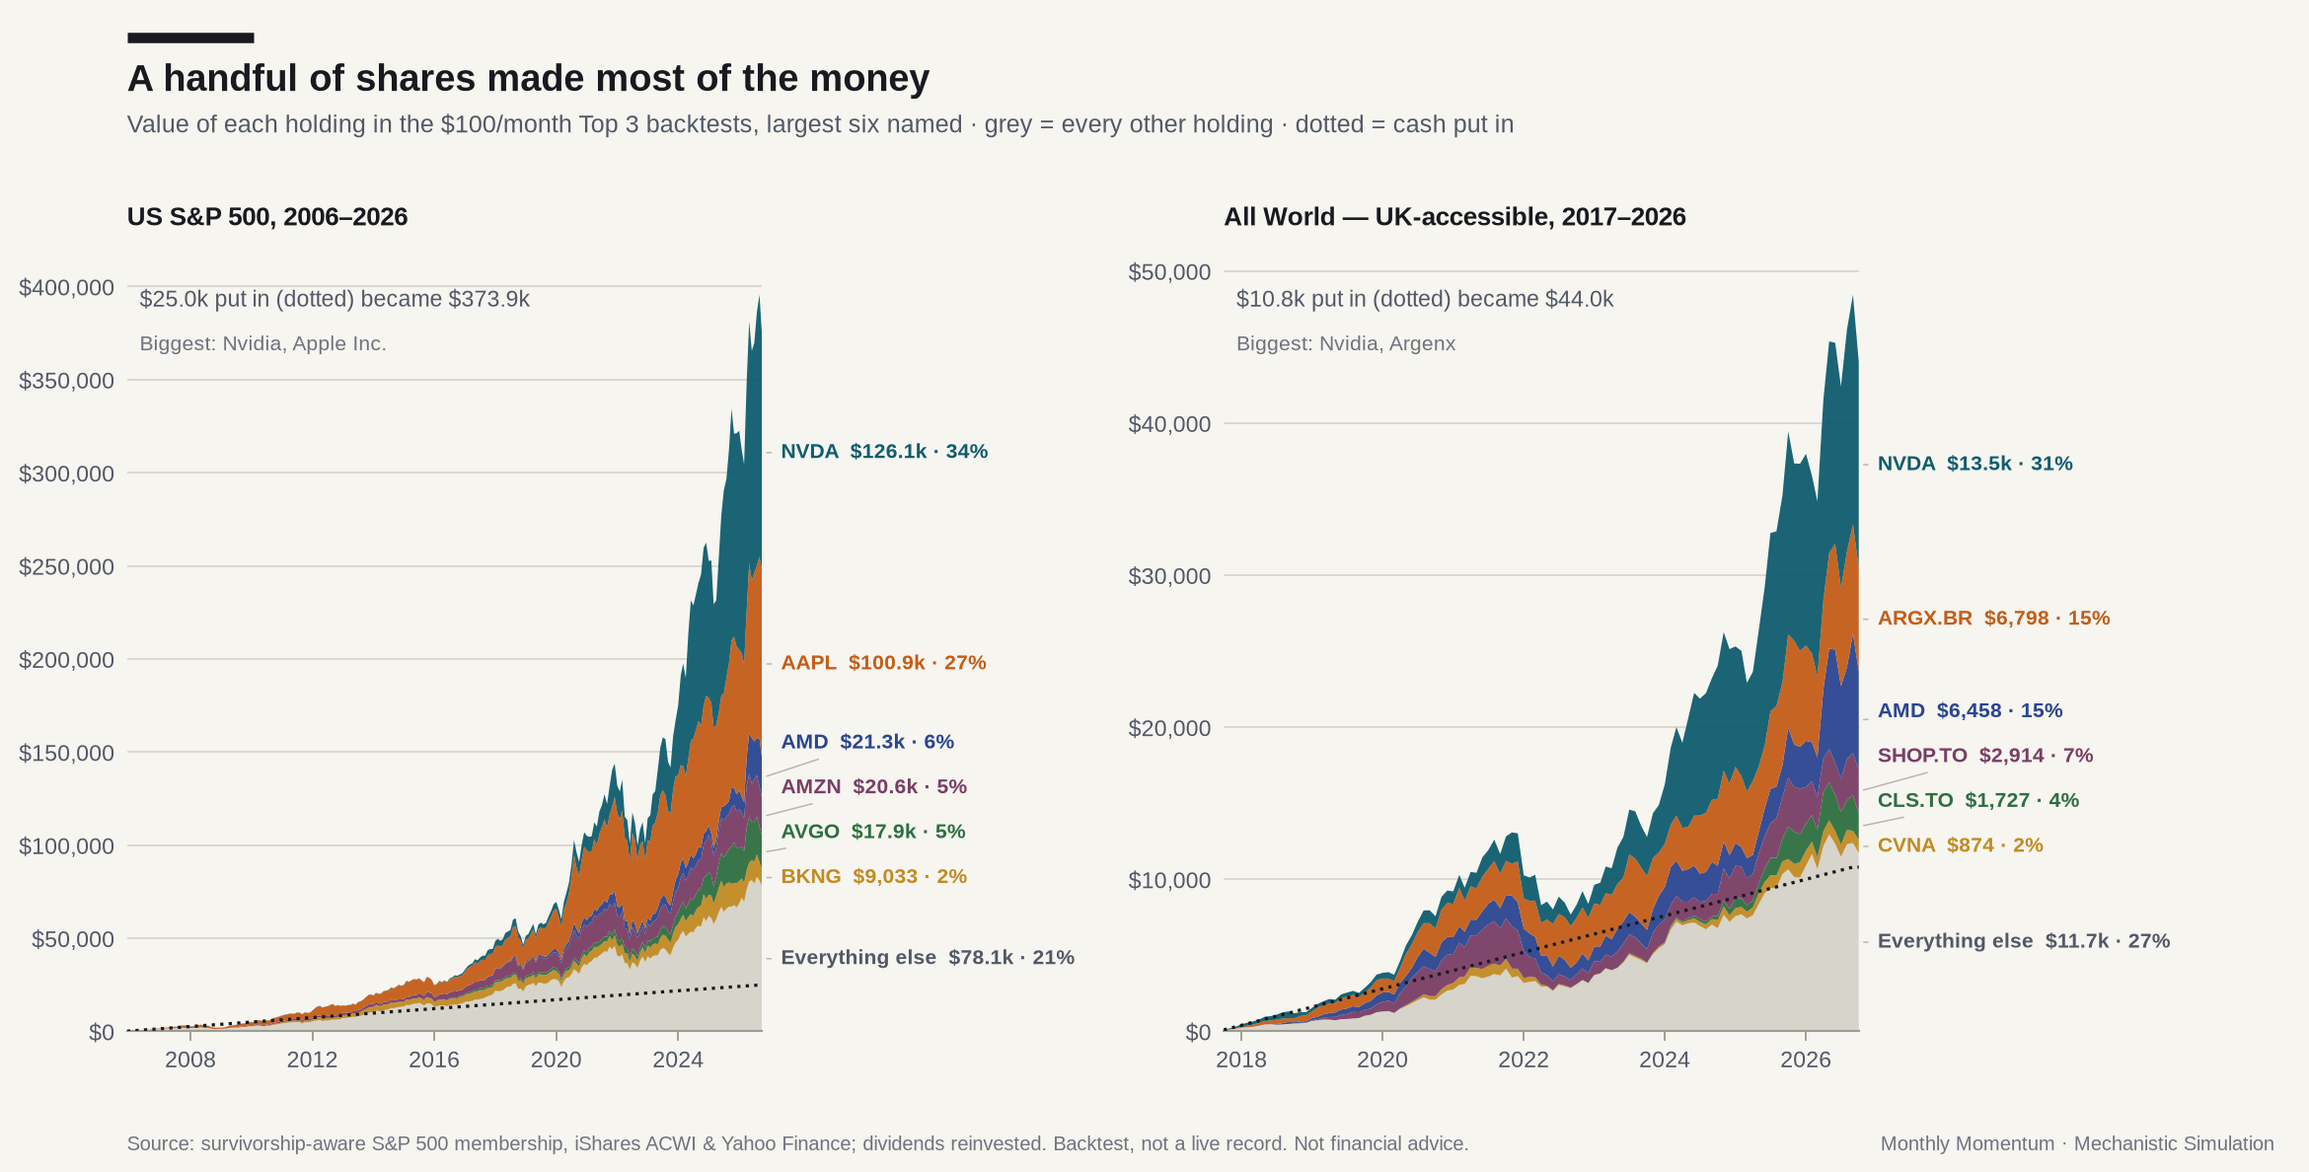
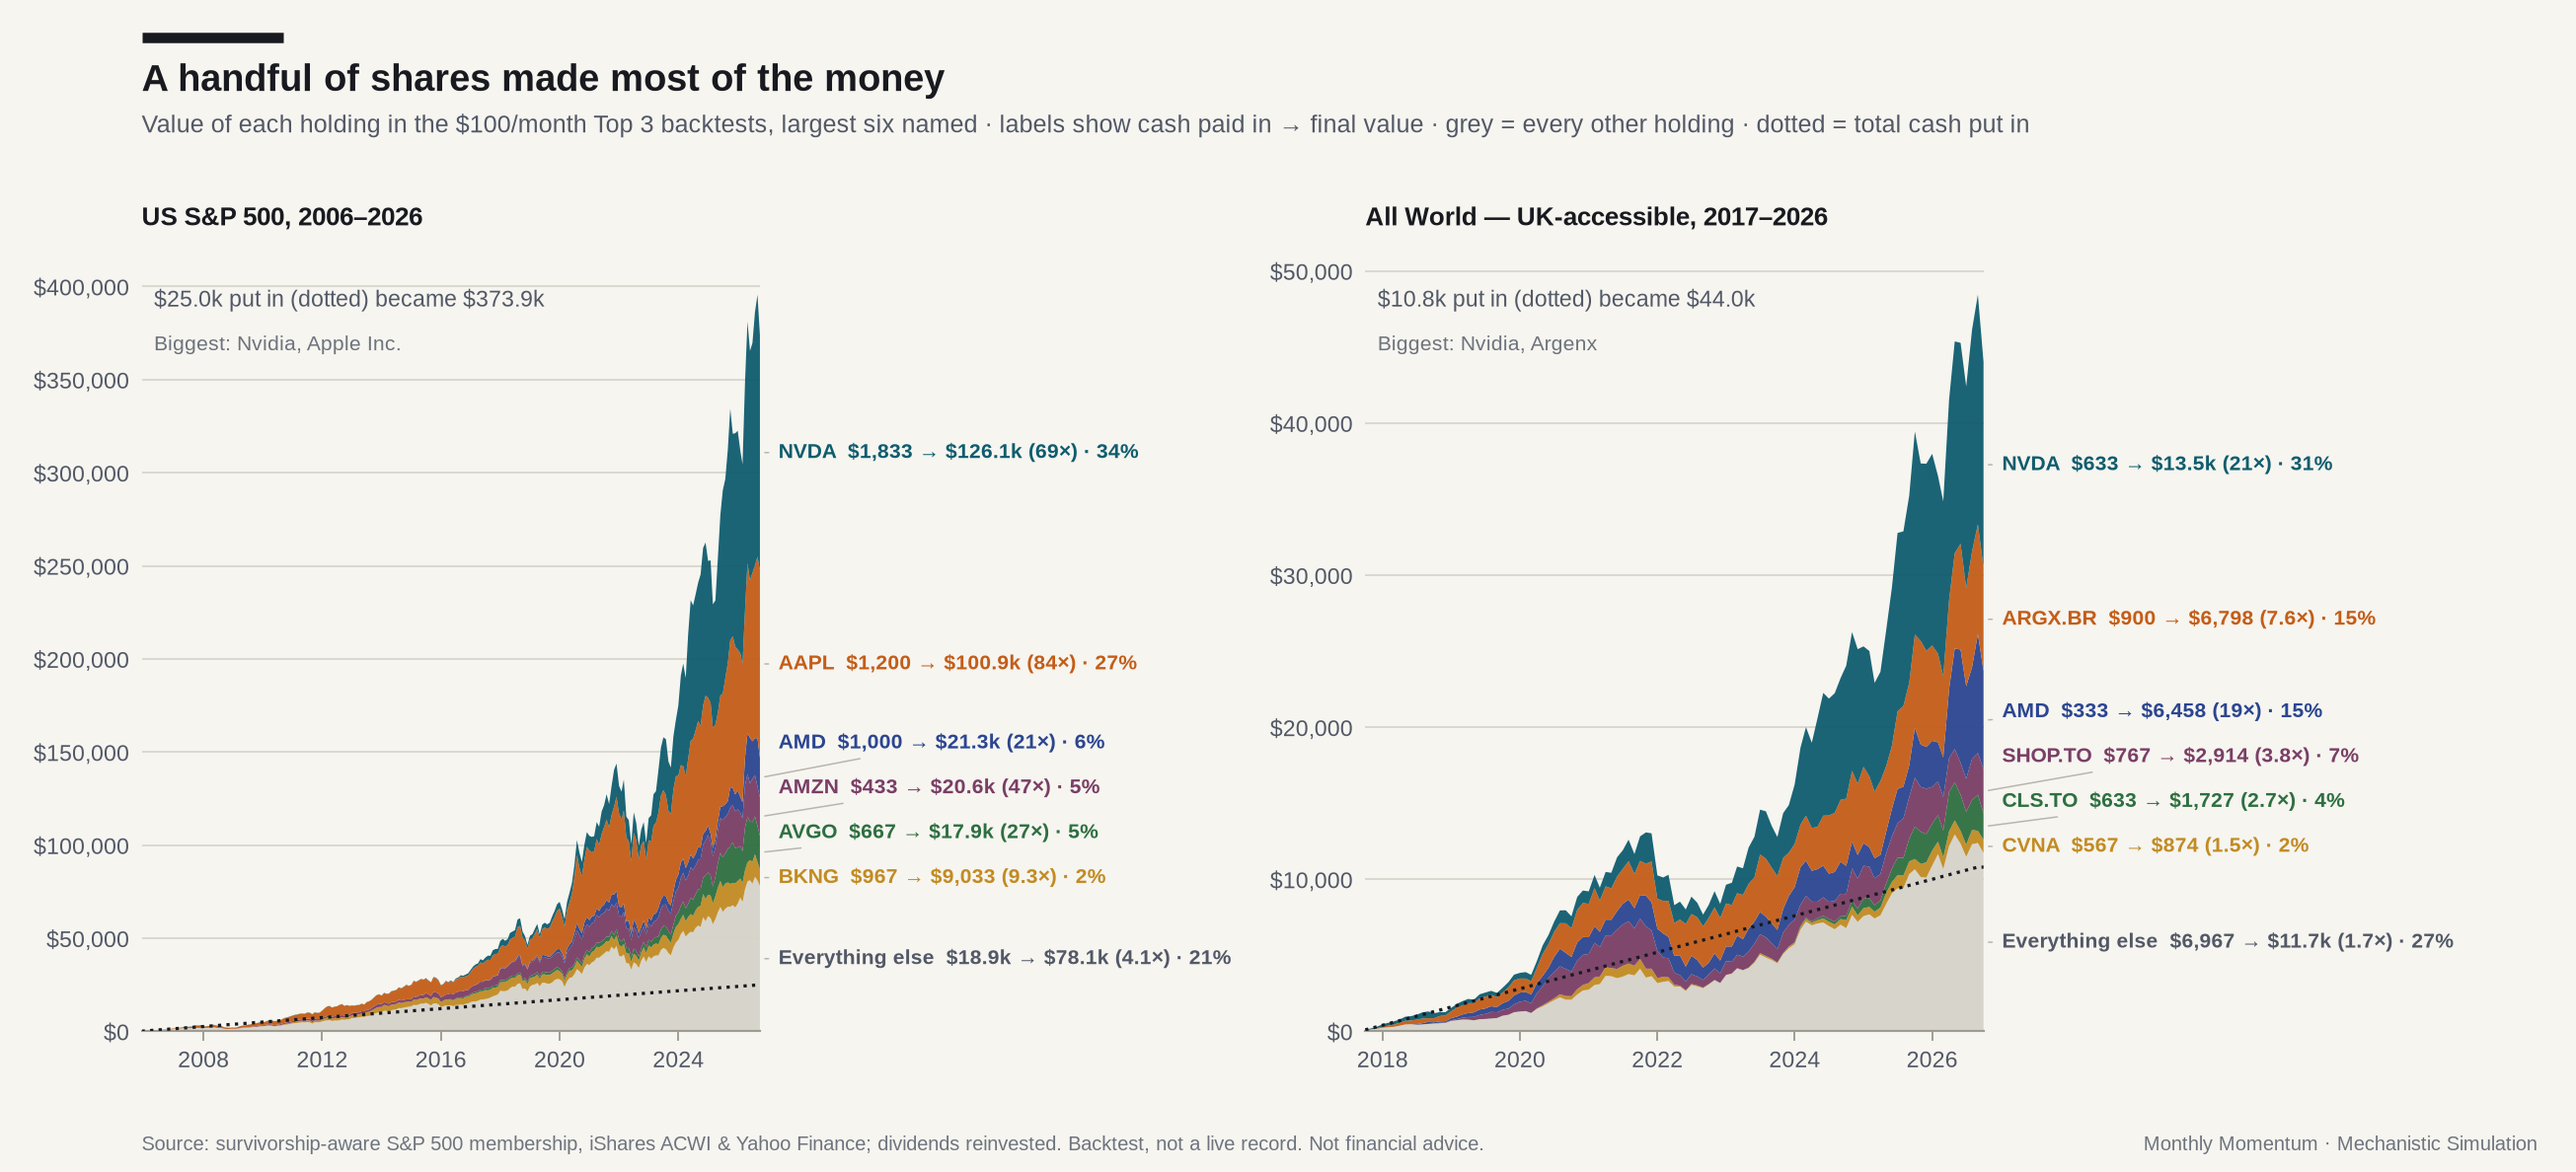
Show cash paid in and growth multiple for each stock in the contribution chart

diff --git a/src/monthly_momentum/chart.py b/src/monthly_momentum/chart.py
@@ -1777,11 +1777,11 @@ def generate_stock_contribution_chart(
     output_path.parent.mkdir(parents=True, exist_ok=True)
     sym = currency_symbol
 
-    fig = plt.figure(figsize=(13.0, 6.6), facecolor=PAPER_BG)
+    fig = plt.figure(figsize=(14.5, 6.6), facecolor=PAPER_BG)
     _draw_top_rule_and_headers(fig, title, subtitle, footer_left=footer_note, left=0.055)
     slot = 0.95 / len(panels)
     for idx, panel in enumerate(panels):
-        ax = fig.add_axes((0.055 + idx * slot, 0.12, slot - 0.20, 0.66))
+        ax = fig.add_axes((0.055 + idx * slot, 0.12, slot - 0.235, 0.66))
         _style_editorial_axis(ax)
         dates = list(panel["dates"])
         bands: list[tuple[str, list[float]]] = list(panel["bands"])
@@ -1821,14 +1821,22 @@ def generate_stock_contribution_chart(
         # Label each band at its final-value midpoint, nudged apart to avoid overlaps.
         mids: list[tuple[float, str, str]] = []
         base = 0.0
+        invested: Mapping[str, float] = panel.get("invested", {})
         for key, vals, color in zip(stack_keys, stack_vals, colors, strict=True):
             v = vals[-1]
             share = v / total_final * 100.0 if total_final > 0 else 0.0
+            paid = invested.get(key)
+            growth = (
+                f"  {_format_compact_value(sym, paid)} → {_format_compact_value(sym, v)}"
+                + (f" ({v / paid:.0f}×)" if v / paid >= 10 else f" ({v / paid:.1f}×)")
+                if paid
+                else f"  {_format_compact_value(sym, v)}"
+            )
             if key == "Other":
-                txt = f"Everything else  {_format_compact_value(sym, v)} · {share:.0f}%"
+                txt = f"Everything else{growth} · {share:.0f}%"
                 ink = INK_SUB
             else:
-                txt = f"{key}  {_format_compact_value(sym, v)} · {share:.0f}%"
+                txt = f"{key}{growth} · {share:.0f}%"
                 ink = color
             mids.append(((base + v / 2.0) / y_top, txt, ink))
             base += v

diff --git a/src/monthly_momentum/report.py b/src/monthly_momentum/report.py
@@ -1470,8 +1470,20 @@ def _stock_value_panel(
         for item in r_res.ranked:
             if item.name:
                 names.setdefault(item.ticker, item.name)
+    # Cash paid in per stock: each month's new deposit split equally across that month's
+    # picks (recycled takeover proceeds are not new money, so they are not counted).
+    invested: dict[str, float] = {}
+    prev_cum = 0.0
+    for pt in pts:
+        deposit = pt.contributed_cum - prev_cum
+        prev_cum = pt.contributed_cum
+        if deposit > 0.0 and pt.top_picks:
+            for tk in pt.top_picks:
+                invested[tk] = invested.get(tk, 0.0) + deposit * scale / len(pt.top_picks)
+    invested_other = sum(v for tk, v in invested.items() if tk not in top)
     return {
         "label": label,
+        "invested": {**{tk: invested.get(tk, 0.0) for tk in top}, "Other": invested_other},
         "dates": [pt.dt for pt in pts],
         "cash": [pt.contributed_cum * scale for pt in pts],
         "bands": [(tk, [v.get(tk, 0.0) for v in values]) for tk in top],
@@ -1957,7 +1969,8 @@ def rebuild_public_reports(
         title="A handful of shares made most of the money",
         subtitle=(
             "Value of each holding in the $100/month Top 3 backtests, largest six named · "
-            "grey = every other holding · dotted = cash put in"
+            "labels show cash paid in → final value · grey = every other holding · "
+            "dotted = total cash put in"
         ),
         footer_note=(
             "Source: survivorship-aware S&P 500 membership, iShares ACWI & Yahoo Finance; "
